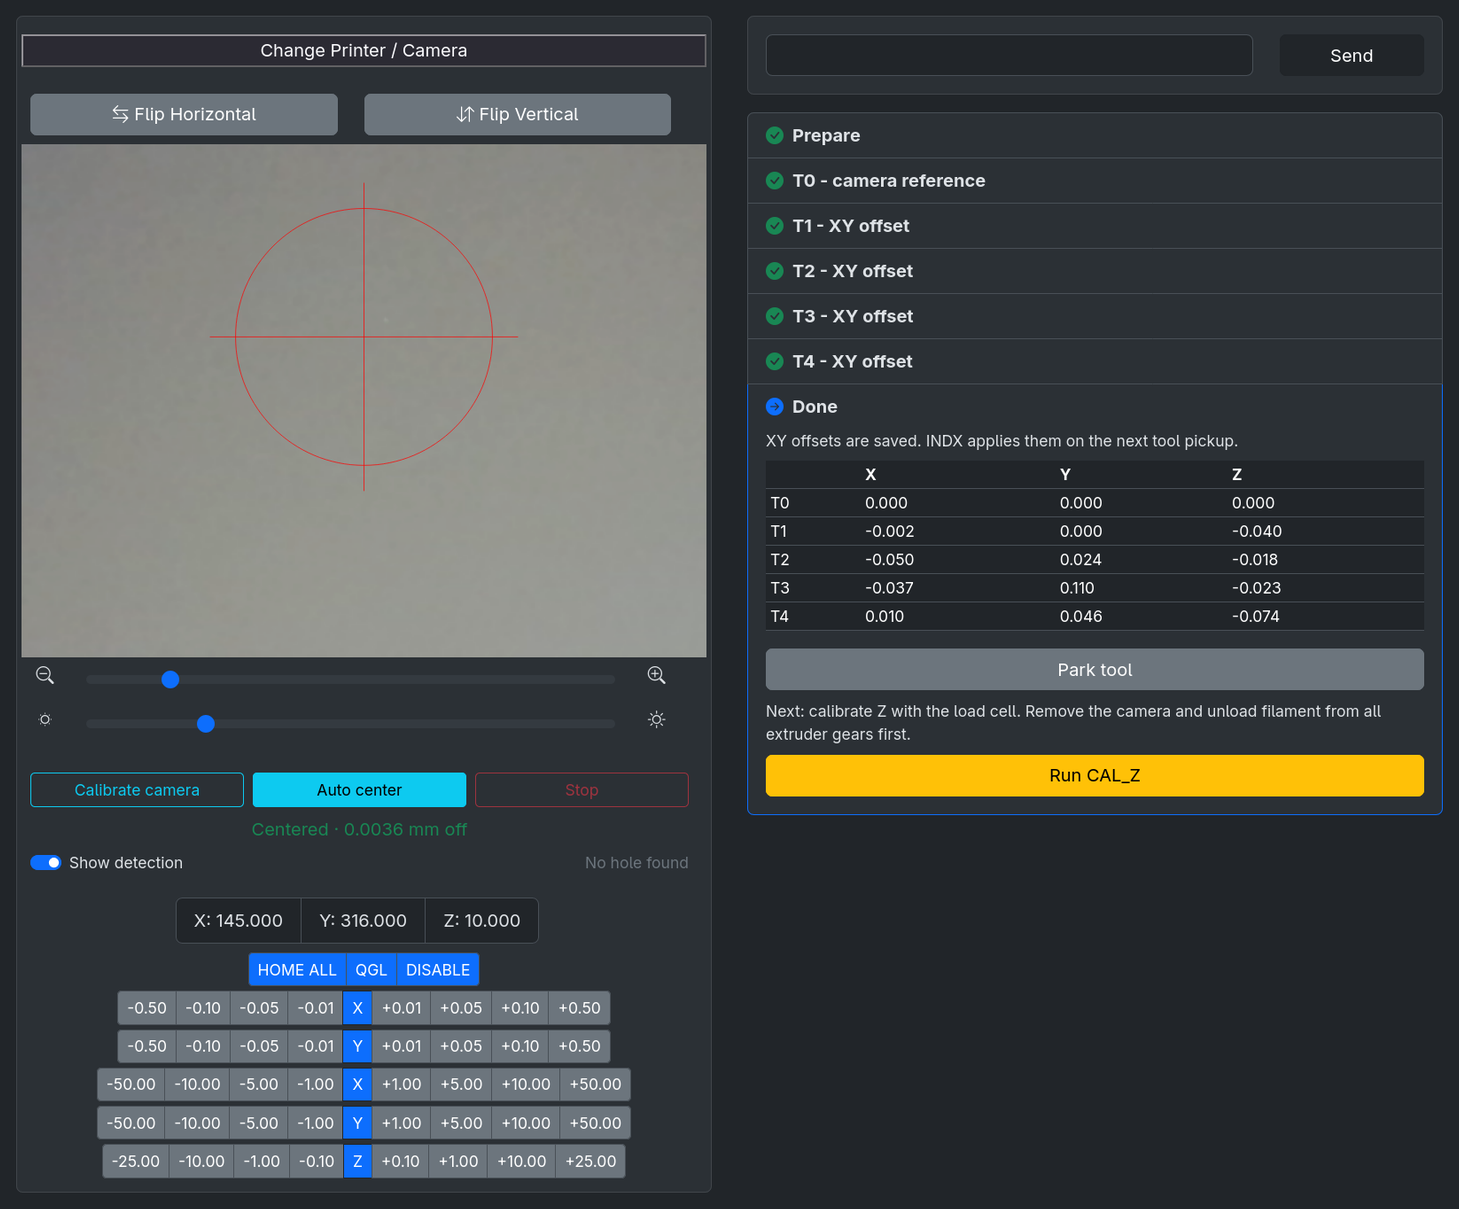
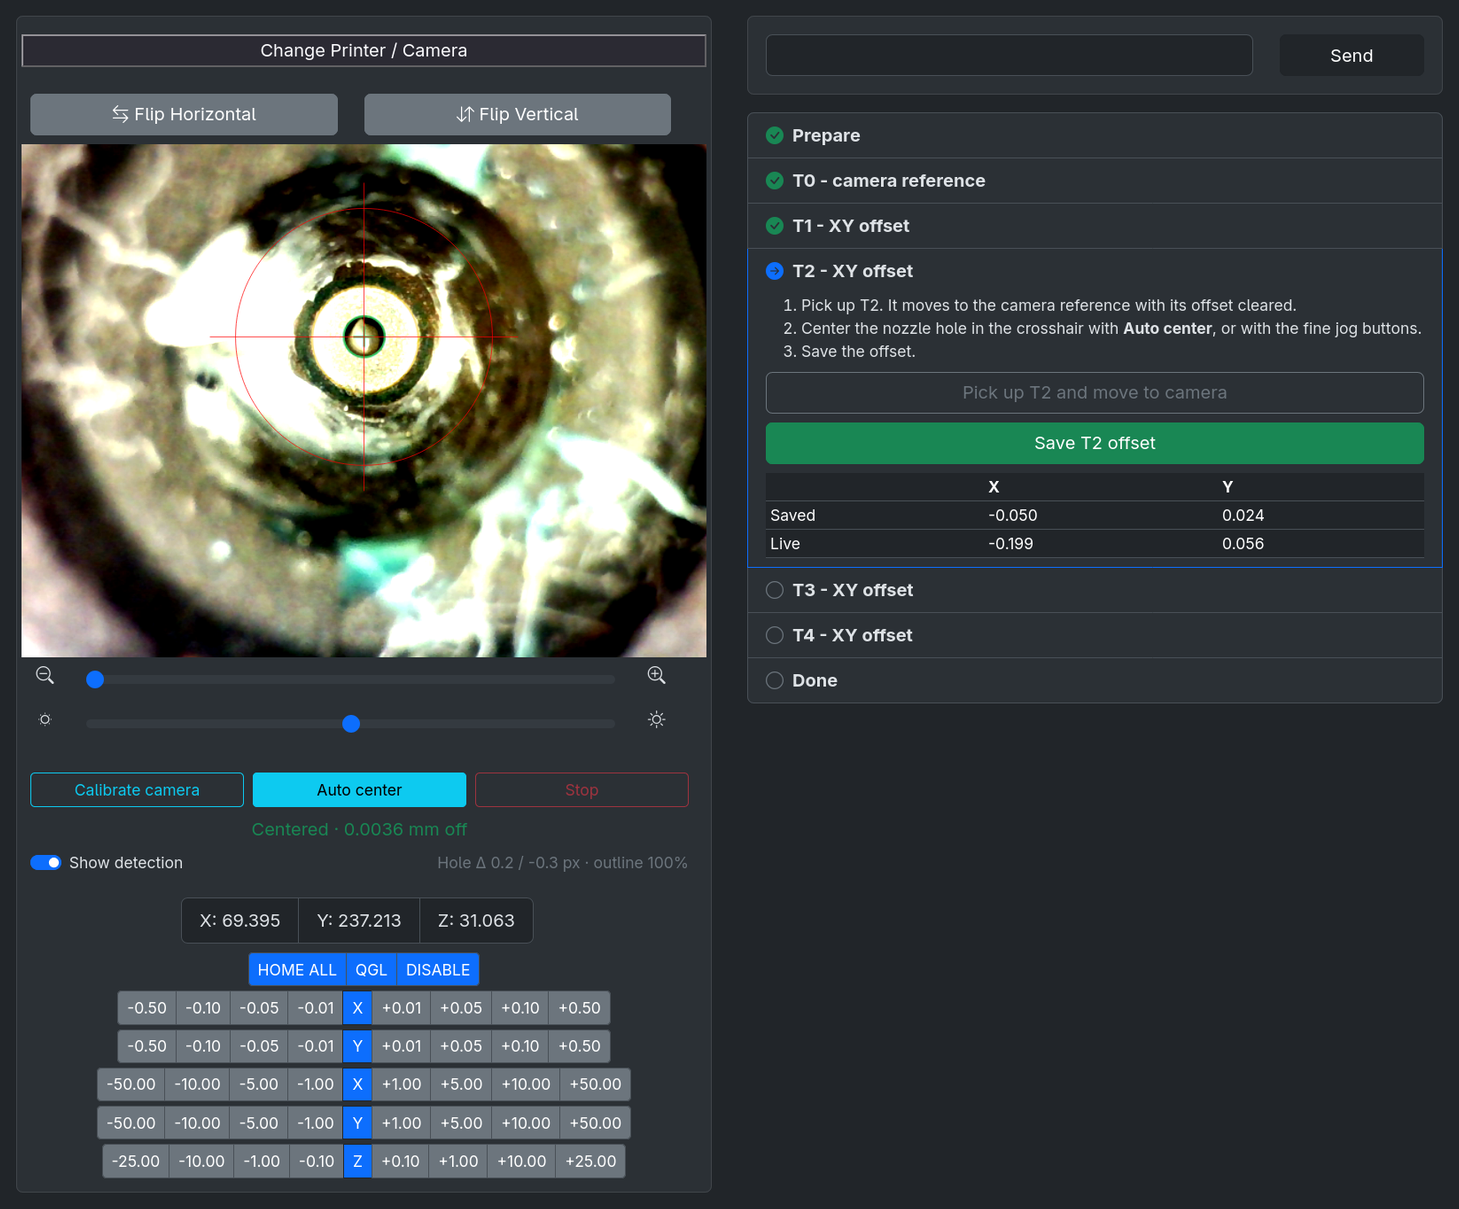
Use a screenshot with a real nozzle in the README
Shows auto center on T2 during the INDX guide, with the camera image of
the nozzle hole instead of an empty view.

diff --git a/README.md b/README.md
@@ -2,7 +2,7 @@
 
 Camera-assisted XY tool alignment for [Bondtech INDX](https://github.com/BondtechAB/INDX) printers. Center each nozzle in the crosshair and INDX saves the offset. This is the [nozzle camera method](https://github.com/BondtechAB/INDX#method-3-nozzle-camera-most-precise-xy-higher-cost) from the INDX docs, as a guided web page.
 
-<img src="media/axiscope.png" alt="Axiscope with the INDX guide finished and auto center done" width="700"/>
+<img src="media/axiscope.png" alt="Axiscope centering T2 on the nozzle hole during the INDX guide" width="700"/>
 
 ## Table of Contents
 
